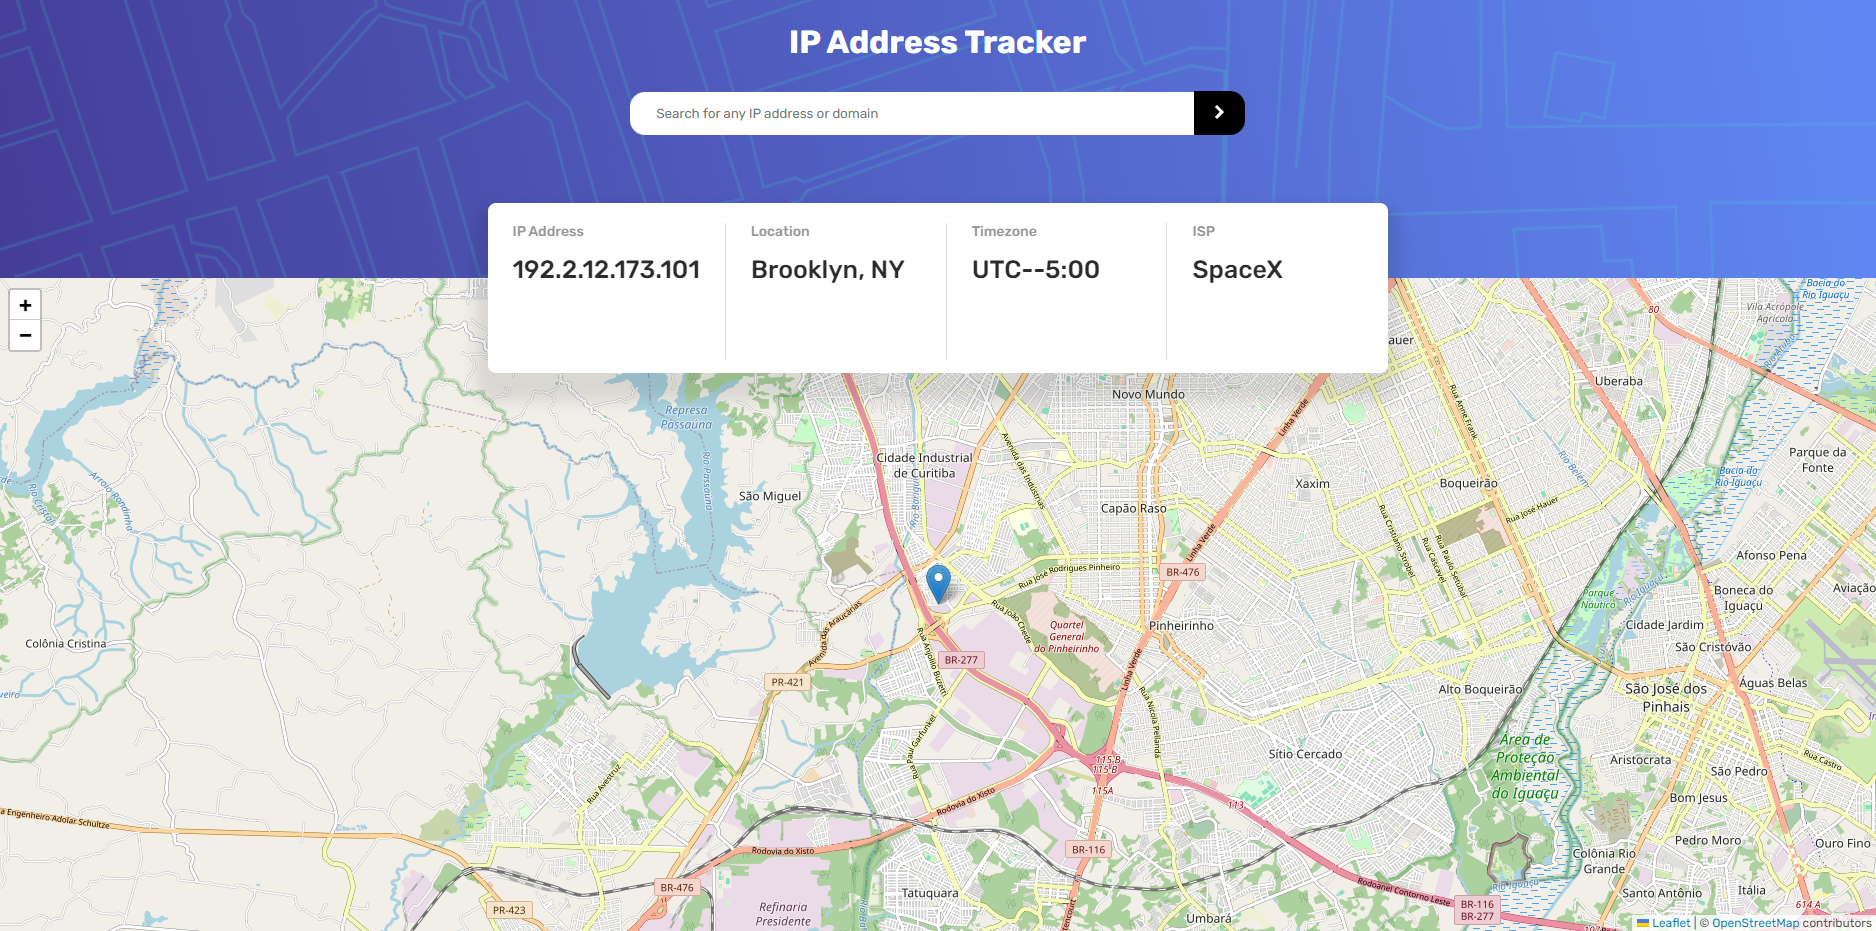
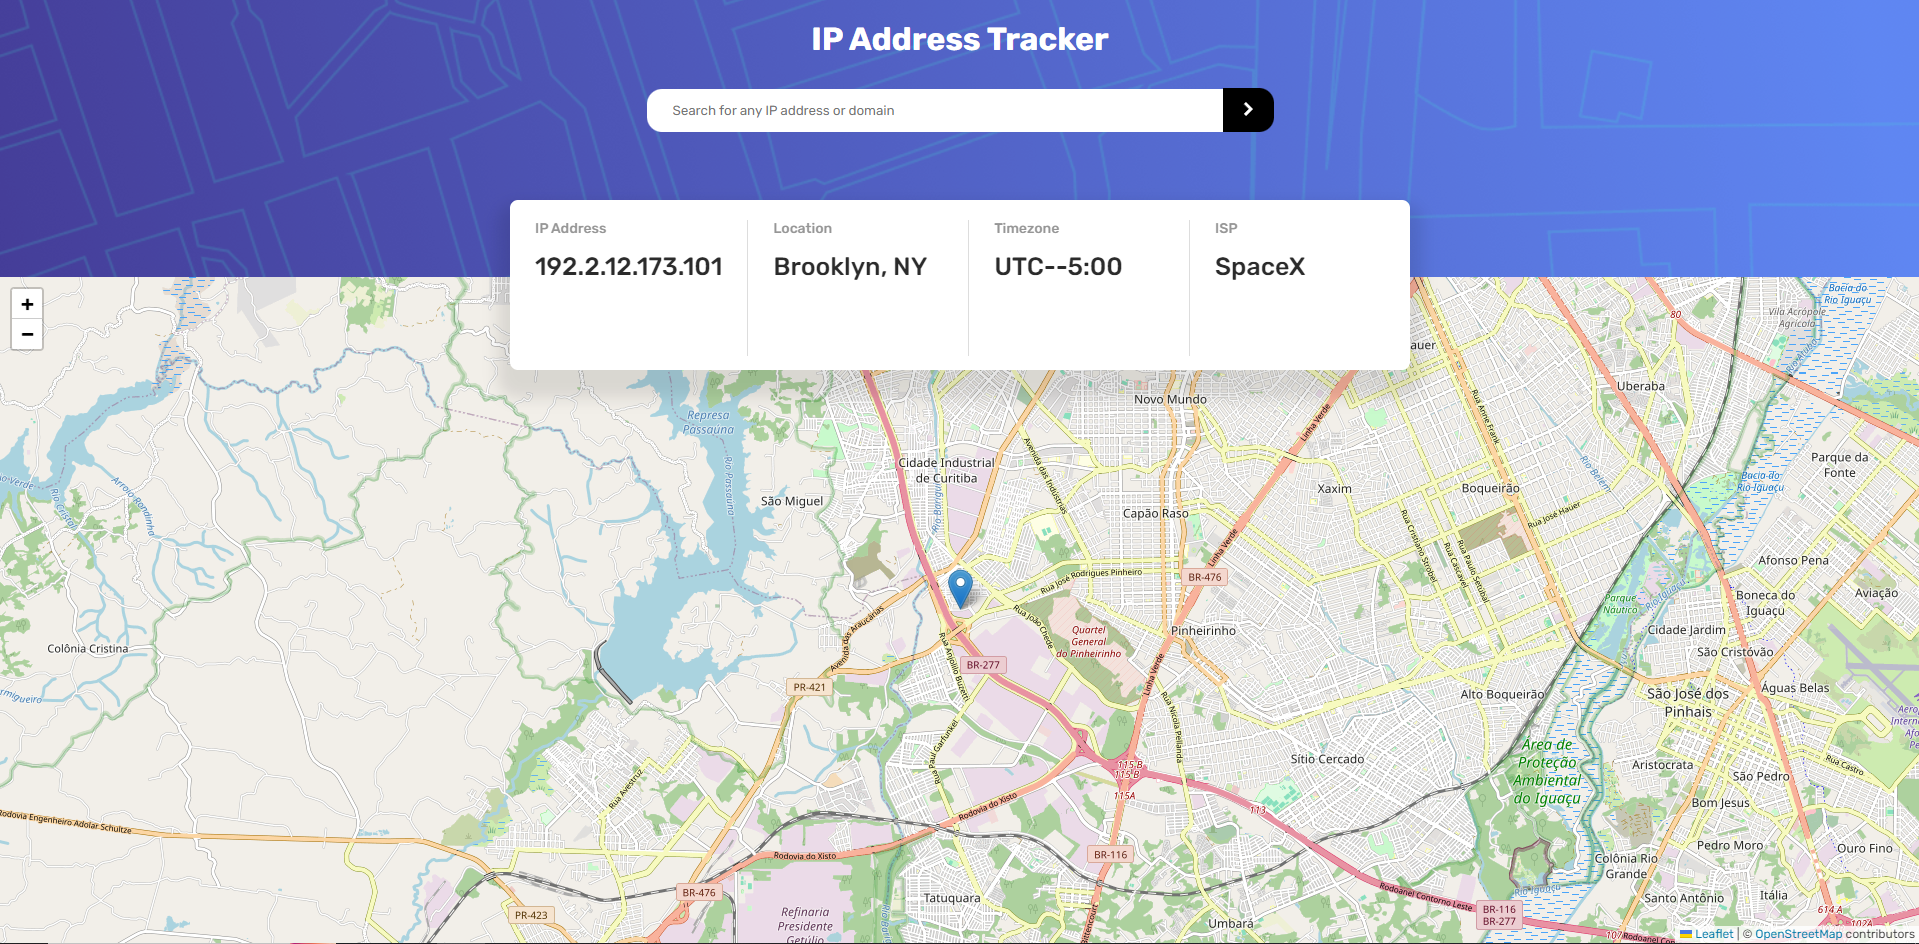
refactoring and upgrade

diff --git a/src/js/index.js b/src/js/index.js
@@ -2,8 +2,9 @@ const searchInput = document.querySelector('.search-ip-input');
 const searchBtn = document.querySelector('.search-btn');
 const apiKey = 'at_T29Ogg1wQh2uUk6w41nJLnsODuUAa';
 let latitude, longitude;
-var map; 
+var map;
 
+// Pesquisa ao clicar em Enter
 searchInput.addEventListener('keyup', (event) => {
     const pressedKey = event.which || event.keyCode;
     const isEnterKeyPressed = pressedKey === 13;
@@ -13,16 +14,31 @@ searchInput.addEventListener('keyup', (event) => {
     }
 });
 
-
-document.addEventListener('DOMContentLoaded', function () {
+// Quando o DOM é carregado, obtém o endereço IP do usuário, busca os detalhes do IP e exibe na página
+document.addEventListener('DOMContentLoaded', async () => {
     navigator.geolocation.getCurrentPosition(success);
+
+    const userIpResponse = await getIpUser();
+    const userIp = userIpResponse.ip;
+
+    document.getElementById('ip-address-info').textContent = userIp;
+    const ipDetailsResponse = await getIpOrDomain(apiKey, userIp, userIp);
+
+    displayIpDetails(ipDetailsResponse);
 });
 
+// Função para obter a posição geográfica do usuário
 function success(pos) {
     const latitude = pos.coords.latitude;
     const longitude = pos.coords.longitude;
     showMap(latitude, longitude);
 }
+
+async function getIpUser() {
+    const responseIpUser = await fetch('https://api.ipify.org?format=json');
+    return await responseIpUser.json();
+}
+
 
 async function getIpOrDomain(apiKey, query, ip) {
     try {
@@ -32,7 +48,7 @@ async function getIpOrDomain(apiKey, query, ip) {
             throw new Error('Failed to fetch IP information');
         }
 
-        return await response.json();      
+        return await response.json();
 
     } catch (error) {
         console.error('Error calling IP API:', error);
@@ -40,6 +56,7 @@ async function getIpOrDomain(apiKey, query, ip) {
     }
 }
 
+// Função para buscar os resultados da consulta
 async function getQueryresults() {
     try {
         const valueInputSearch = searchInput.value;
@@ -47,19 +64,21 @@ async function getQueryresults() {
 
         if (typeof valueInputSearch === 'string') {
             query = valueInputSearch;
-        } 
+        }
         else if (typeof valueInputSearch === 'number') {
             ip = valueInputSearch;
         }
 
-        const response = await getIpOrDomain(apiKey, query, ip);
+        const response = await getIpOrDomain(apiKey, query ? query : ip, ip);
 
         displayIpDetails(response);
+
     } catch (error) {
         console.error('Error fetching or displaying IP details:', error);
     }
 }
 
+// Função para exibir os detalhes do IP na página
 function displayIpDetails(response) {
     document.getElementById('ip-address-info').textContent = response.ip;
     document.getElementById('ip-location-info').textContent = `${response.location.region}, ${response.location.country}`;
@@ -68,11 +87,13 @@ function displayIpDetails(response) {
     latitude = response.location.lat;
     longitude = response.location.lng;
 
+
     showMap(latitude, longitude);
 }
 
-searchBtn.addEventListener('click', fetchIpDetails);
+searchBtn.addEventListener('click', getQueryresults);
 
+// Função para exibir o mapa com base na latitude e longitude
 function showMap(latitude, longitude) {
     if (map) {
         map.setView([latitude, longitude], 13);
@@ -81,7 +102,7 @@ function showMap(latitude, longitude) {
                 layer.setLatLng([latitude, longitude]).update();
             }
         });
-    } else { 
+    } else {
         map = L.map('map').setView([latitude, longitude], 13);
 
         L.tileLayer('https://tile.openstreetmap.org/{z}/{x}/{y}.png', {

diff --git a/index.html b/index.html
@@ -43,22 +43,22 @@
     <div class="info-section">
       <div class="ip-info-field">
         <h3>IP Address</h3>
-        <p id="ip-address-info">192.2.12.173.101</p>
+        <p id="ip-address-info"></p>
       </div>
 
       <div class="ip-info-field">
         <h3>Location</h3>
-        <p id="ip-location-info">Brooklyn, NY</p>
+        <p id="ip-location-info"></p>
       </div>
 
       <div class="ip-info-field">
         <h3>Timezone</h3>
-        <p id="ip-timezone-info">UTC--5:00</p>
+        <p id="ip-timezone-info"></p>
       </div>
 
       <div class="ip-info-field">
         <h3>ISP</h3>
-        <p id="ip-isp-info">SpaceX</p>
+        <p id="ip-isp-info"></p>
       </div>
     </div>
 

diff --git a/README.md b/README.md
@@ -32,7 +32,7 @@ Users should be able to:
 
 ### Links
 
-- Solution URL: (https://your-solution-url.com)
+- Solution URL: (https://gabrielth58.github.io/IP-Address-Tracker/)
 
 ## My Process
 
